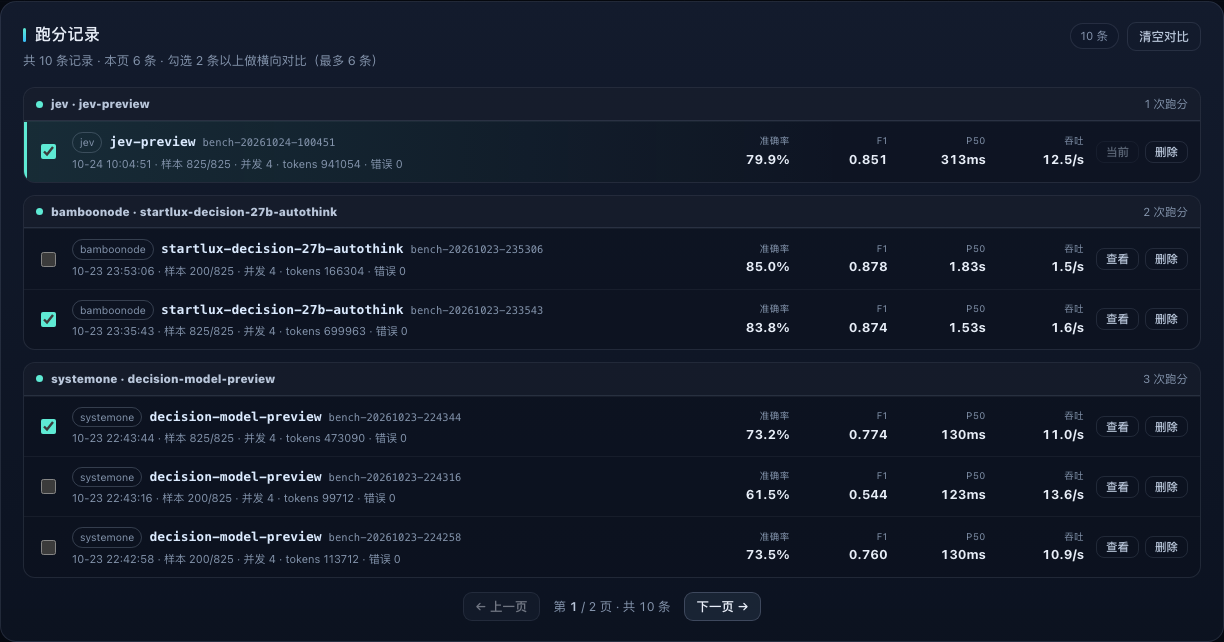
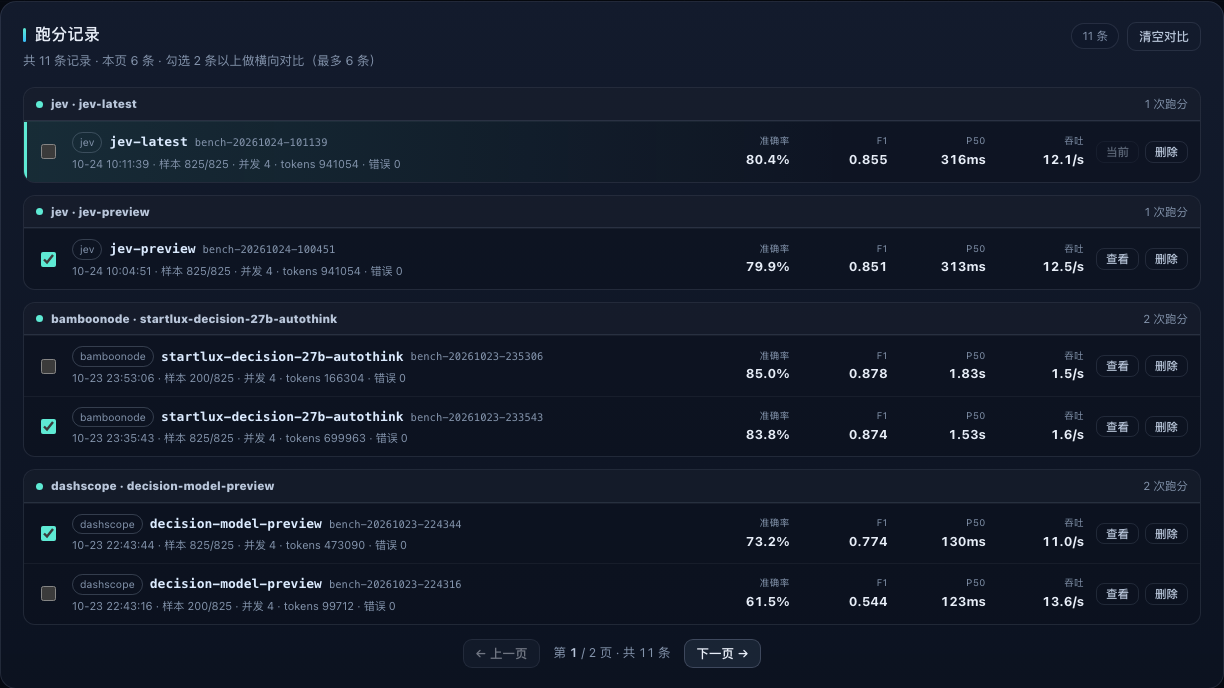
refactor: rename systemone provider to dashscope
- rename provider key, default config, UI dropdown, CLI and API examples
- keep legacy systemone request/config name as a compatibility alias
- migrate existing local result provider labels and refresh screenshots/docs
- update provider tests for dashscope and alias normalization

diff --git a/public/index.html b/public/index.html
@@ -128,7 +128,7 @@
         <label class="field">
           <span>Provider</span>
           <select id="providerSelect">
-            <option value="systemone">systemone</option>
+            <option value="dashscope">dashscope</option>
             <option value="bamboonode">bamboonode</option>
             <option value="jev">jev</option>
             <option value="mock">mock</option>
@@ -147,7 +147,7 @@
         <button class="btn" id="exportBtn" type="button" title="导出当前结果为 CSV" disabled>导出 CSV</button>
       </form>
 
-      <p class="inline-note warn" id="apiKeyWarn" hidden>未检测到 DASHSCOPE_API_KEY（百炼），选择 systemone 会返回配置错误。</p>
+      <p class="inline-note warn" id="apiKeyWarn" hidden>未检测到 DASHSCOPE_API_KEY（百炼），选择 dashscope 会返回配置错误。</p>
 
       <div class="run-progress" id="progressWrap" hidden aria-live="polite">
         <div class="progress-head">

diff --git a/public/app.js b/public/app.js
@@ -266,8 +266,8 @@
       warn.hidden = false;
       return;
     }
-    if (providerName === 'systemone' && health.apiKeyConfigured === false) {
-      warn.textContent = '未检测到 DASHSCOPE_API_KEY（百炼），选择 systemone 会返回配置错误。';
+    if (providerName === 'dashscope' && health.apiKeyConfigured === false) {
+      warn.textContent = '未检测到 DASHSCOPE_API_KEY（百炼），选择 dashscope 会返回配置错误。';
       warn.hidden = false;
       return;
     }

diff --git a/README.md b/README.md
@@ -15,7 +15,7 @@
   <img alt="Node.js 20+" src="https://img.shields.io/badge/Node.js-20%2B-339933">
   <img alt="dependencies: 0" src="https://img.shields.io/badge/dependencies-0-brightgreen">
   <img alt="tests: 58 passed" src="https://img.shields.io/badge/tests-58%20passed-brightgreen">
-  <img alt="providers: systemone / bamboonode / jev / mock" src="https://img.shields.io/badge/providers-systemone%20%7C%20bamboonode%20%7C%20jev%20%7C%20mock-5eead4">
+  <img alt="providers: dashscope / bamboonode / jev / mock" src="https://img.shields.io/badge/providers-dashscope%20%7C%20bamboonode%20%7C%20jev%20%7C%20mock-5eead4">
   <a href="https://github.com/MuShan-bit/decision-moderation-bench"><img alt="GitHub" src="https://img.shields.io/badge/GitHub-decision--moderation--bench-181717?logo=github"></a>
 </p>
 
@@ -27,7 +27,7 @@
 
 ## ✨ 功能
 
-- **多 Provider，同一套协议**：`systemone`（百炼）、`bamboonode`（StartLux）、`jev`（Jev 官方网关）、`mock`（离线规则模拟）
+- **多 Provider，同一套协议**：`dashscope`（百炼 DashScope）、`bamboonode`（StartLux）、`jev`（Jev 官方网关）、`mock`（离线规则模拟）
 - **Provider → Model 级联**：前端只展示当前 provider 可用的模型，后端对跨 provider 的模型组合直接返回 `400 MODEL_NOT_ALLOWED`
 - **可复现评测集**：5 个公开中文数据集、固定 `seed=42`、金标全部来自原始标签映射，数据统计与局限见 [data/README.md](data/README.md)
 - **跑分记录按模型分组 + 分页 / 删除**：每次跑分独立保存为 `results/<runId>.json`，每页 6 条，可翻页查看或删除；删除 latest 会自动回退到上一条
@@ -84,7 +84,7 @@
 
 | 模型 | Provider | 准确率 | 精确率 | 召回率 | F1 | P50 延迟 | P95 延迟 | 吞吐 | 825 条总耗时 |
 | --- | --- | ---: | ---: | ---: | ---: | ---: | ---: | ---: | ---: |
-| `decision-model-preview` | 百炼 `systemone` | 73.2% | 83.5% | 72.2% | 0.774 | **130ms** | 1.94s | 11.03 req/s | 74.8s |
+| `decision-model-preview` | 百炼 `dashscope` | 73.2% | 83.5% | 72.2% | 0.774 | **130ms** | 1.94s | 11.03 req/s | 74.8s |
 | `startlux-decision-27b-autothink` | BambooNode `bamboonode` | **83.8%** | **86.5%** | 88.2% | **0.874** | 1.53s | 7.98s | 1.58 req/s | 8m41s |
 | `jev-preview` | Jev / TypeSafe `jev` | 79.9% | 80.5% | **90.3%** | 0.851 | 313ms | **359ms** | **12.46 req/s** | **66.2s** |
 
@@ -93,7 +93,7 @@
 - **速度呈现三种取舍**：百炼 P50 最快（130ms），但 P95 1.94s、吞吐 11.03 req/s；Jev P50 313ms、**P95 仅 359ms**、吞吐 **12.46 req/s** 为三者最高；StartLux P50 1.53s、P95 7.98s、吞吐 1.58 req/s。
 - 解析失败与调用错误均为 **0**；tokens：百炼 473,090（573/条），StartLux 699,963（848/条），Jev 941,054（1,141/条）。
 - 200 条样本档复测：百炼 ensemble **73.5%**、StartLux **85.0%**，与全量结论一致；百炼纯 argmax 仅 **61.5%**（消融详见报告）。
-- Jev 本次使用 `jev-preview`（1.14）跑全量；`jev-latest`（1.13 stable）已配置但未跑，可用 `node scripts/benchmark.mjs --provider jev --model jev-latest --concurrency 4` 补测。
+- Jev 本次使用 `jev-preview`（1.14）跑全量；`jev-latest`（1.13 stable）也可用 `node scripts/benchmark.mjs --provider jev --model jev-latest --concurrency 4` 跑同一套评测。
 
 ### 分类别 F1 对比（825 条）
 
@@ -119,7 +119,7 @@ cd decision-moderation-bench
 
 cp .env.example .env
 # 编辑 .env，按需填写：
-#   DASHSCOPE_API_KEY + SYSTEMONE_WORKSPACE_ID   # 百炼 systemone
+#   DASHSCOPE_API_KEY + SYSTEMONE_WORKSPACE_ID   # 百炼 dashscope
 #   BAMBOONODE_API_KEY                           # BambooNode / StartLux
 #   JEVMODEL_API_KEY                             # Jev 官方网关
 
@@ -133,8 +133,8 @@ npm start
 
 | 变量 | 必填 | 说明 |
 | --- | --- | --- |
-| `DASHSCOPE_API_KEY` | 跑 `systemone` 必填 | 阿里云百炼 API Key |
-| `SYSTEMONE_WORKSPACE_ID` | 跑 `systemone` 必填 | 百炼 workspace id，默认域名 `https://{id}.cn-beijing.maas.aliyuncs.com` |
+| `DASHSCOPE_API_KEY` | 跑 `dashscope` 必填 | 阿里云百炼 API Key |
+| `SYSTEMONE_WORKSPACE_ID` | 跑 `dashscope` 必填 | 百炼 workspace id，默认域名 `https://{id}.cn-beijing.maas.aliyuncs.com` |
 | `SYSTEMONE_REGION` | 否 | 默认 `cn-beijing` |
 | `BAMBOONODE_API_KEY` | 跑 `bamboonode` 必填 | BambooNode 网关 Key |
 | `BAMBOONODE_BASE_URL` | 否 | 默认 `https://api.bamboonode.dev/v1` |
@@ -142,7 +142,7 @@ npm start
 | `JEVMODEL_API_KEY` | 跑 `jev` 必填 | Jev / TypeSafe 官方网关 Key |
 | `JEVMODEL_BASE_URL` | 否 | 默认 `https://api.typesafe.ai/v1` |
 | `JEVMODEL_MODELS` | 否 | 默认 `jev-preview,jev-latest` |
-| `MODERATION_PROVIDER` | 否 | 默认 `systemone`；可选 `systemone` / `bamboonode` / `jev` / `mock` |
+| `MODERATION_PROVIDER` | 否 | 默认 `dashscope`；可选 `dashscope` / `bamboonode` / `jev` / `mock` |
 | `MODERATION_MODEL` | 否 | 默认 `decision-model-preview` |
 | `PORT` / `HOST` | 否 | 默认 `8788` / `127.0.0.1` |
 | `RESULTS_DIR` | 否 | 结果目录，默认 `results/` |
@@ -173,7 +173,7 @@ npm start
 
 ```bash
 # 全部 825 条，并发 4
-node scripts/benchmark.mjs --provider systemone --model decision-model-preview --concurrency 4
+node scripts/benchmark.mjs --provider dashscope --model decision-model-preview --concurrency 4
 
 # StartLux（BambooNode）
 node scripts/benchmark.mjs --provider bamboonode --model startlux-decision-27b-autothink --concurrency 4
@@ -182,8 +182,8 @@ node scripts/benchmark.mjs --provider bamboonode --model startlux-decision-27b-a
 node scripts/benchmark.mjs --provider jev --model jev-preview --concurrency 4
 
 # 快速冒烟 / 指定输出目录 / 关闭 ensemble
-node scripts/benchmark.mjs --provider systemone --limit 20 --concurrency 2 --out /tmp/bench
-node scripts/benchmark.mjs --provider systemone --limit 200 --pure
+node scripts/benchmark.mjs --provider dashscope --limit 20 --concurrency 2 --out /tmp/bench
+node scripts/benchmark.mjs --provider dashscope --limit 200 --pure
 ```
 
 结果写入 `results/<runId>.json`，同时更新 `results/latest.json`。`--out` 可指定其他目录，避免覆盖主结果。
@@ -218,7 +218,7 @@ node scripts/benchmark.mjs --provider systemone --limit 200 --pure
 │   ├── benchmark.mjs       # 跑分引擎 / 指标 / 结果持久化
 │   ├── dataset.mjs         # 数据集加载
 │   ├── moderation.mjs      # taxonomy / 判定与阈值
-│   ├── providers/          # systemone / bamboonode / jev / mock
+│   ├── providers/          # dashscope / bamboonode / jev / mock
 │   └── lib/                # env / limiter
 ├── scripts/
 │   ├── prepare_data.py     # 数据集构建（Python 标准库）

diff --git a/docs/CONTRACT.md b/docs/CONTRACT.md
@@ -2,14 +2,14 @@
 
 项目：`decision-moderation-bench` —— 基于决策模型（TypeSafe System One / typed-decision 协议）的中文内容安全审核跑分台：
 Web 控制台 + 真实数据集 + 速度/准确率跑分。
-真实 provider：`systemone`（百炼决策模型 `decision-model-preview`）、`bamboonode`（StartLux `startlux-decision-27b-autothink`）、`jev`（Jev 官方网关 `jev-preview` / `jev-latest`）；`mock` 仅离线演示。
+真实 provider：`dashscope`（百炼 DashScope 决策模型 `decision-model-preview`）、`bamboonode`（StartLux `startlux-decision-27b-autothink`）、`jev`（Jev 官方网关 `jev-preview` / `jev-latest`）；`mock` 仅离线演示。
 
 工作目录（workspace root）：`/Users/mushan/Downloads/untitled folder 2`
 
 技术约束（重要）：
 - Node.js v24 可用（`node` 在 PATH）。**后端/前端零 npm 依赖**，只用 Node 内置模块（`node:http`、`node:fs`、全局 `fetch` 等）。不要 `npm install`。
 - 数据准备脚本用 **Python 3 标准库**（`python3` 即 3.14，只有标准库，没有 pandas/numpy；不要安装新包）。
-- 所有产物必须能在离线状态下启动/运行（mock provider 兜底），联网时走真实决策模型 provider（systemone / bamboonode / jev）。
+- 所有产物必须能在离线状态下启动/运行（mock provider 兜底），联网时走真实决策模型 provider（dashscope / bamboonode / jev）。
 - 文本为中文；UI 文案中文。
 - 不要提交/打印 `.env` 里的 API Key。不要 `git init`/`git commit`（无需要）。
 
@@ -91,16 +91,16 @@ Web 控制台 + 真实数据集 + 速度/准确率跑分。
 
 服务默认 `http://127.0.0.1:8788`，静态页面从 `public/` 提供。
 
-- `GET /api/health` → `{"ok":true,"provider":"systemone","model":"decision-model-preview","dataset":{"total":825},"apiKeyConfigured":true,"workspaceConfigured":true,"bamboonodeKeyConfigured":false,"jevKeyConfigured":false,"hasResults":true}`
-- `GET /api/config` → `{"providers":["systemone","bamboonode","jev","mock"],"models":["decision-model-preview"],"providerModels":{"systemone":["decision-model-preview"],"bamboonode":["startlux-decision-27b-autothink"],"jev":["jev-preview","jev-latest"],"mock":["mock-rule-v1"]},"defaultProvider":"systemone","defaultModel":"decision-model-preview","taxonomy":[{"code":"safe","label":"正常"},...],"concurrencyOptions":[1,2,4,8,16],"latestResultId":"..."}`（前端用 `providerModels` 做 Provider→Model 级联筛选）
+- `GET /api/health` → `{"ok":true,"provider":"dashscope","model":"decision-model-preview","dataset":{"total":825},"apiKeyConfigured":true,"workspaceConfigured":true,"bamboonodeKeyConfigured":false,"jevKeyConfigured":false,"hasResults":true}`
+- `GET /api/config` → `{"providers":["dashscope","bamboonode","jev","mock"],"models":["decision-model-preview"],"providerModels":{"dashscope":["decision-model-preview"],"bamboonode":["startlux-decision-27b-autothink"],"jev":["jev-preview","jev-latest"],"mock":["mock-rule-v1"]},"defaultProvider":"dashscope","defaultModel":"decision-model-preview","taxonomy":[{"code":"safe","label":"正常"},...],"concurrencyOptions":[1,2,4,8,16],"latestResultId":"..."}`（前端用 `providerModels` 做 Provider→Model 级联筛选）
 - `GET /api/dataset?offset=0&limit=50&filter=all|violation|safe|error` → `{"total":820,"items":[{sample fields...}]}`（不含 NSFW 原文时可选，但默认返回；sensitive 字段供前端打码）
 - `GET /api/results?page=1&pageSize=6` → `{"total":12,"page":1,"pageSize":6,"totalPages":2,"latestResultId":"bench-...","runs":[{"runId":"bench-...","provider":"bamboonode","model":"startlux-decision-27b-autothink","simulated":false,"startedAt":"...","finishedAt":"...","sampleCount":825,"datasetTotal":825,"limit":825,"concurrency":4,"accuracy":0.8376,"precision":0.8654,"recall":0.8819,"f1":0.8736,"macroF1":0.754,"p50":1533,"p95":7977.6,"throughputRps":1.58,"tokensTotal":699963,"errors":0,"perCategory":{...}}]}`：历史跑分分页摘要（按结束时间倒序，不含 records 正文），供「跑分记录 / 模型对比」使用；`page` 默认 1，`pageSize` 默认 10、上限 50，越界 page 自动夹到最后一页
 - `GET /api/results/latest` → 最新 bench result（结构见第 6 节）或 `null`
 - `GET /api/results/:runId` → 结果
 - `DELETE /api/results/:runId` → `{"ok":true,"runId":"...","latestResultId":"..."}`：删除一条历史跑分；若删除的是 latest 指向记录，自动回退到剩余最新一条（没有则删除 `latest.json`），不存在返回 404
-- `POST /api/benchmark` body `{"limit":200,"concurrency":4,"provider":"systemone","model":"decision-model-preview"}` → `202 {"runId":"bench-20261023-211500"}`；`provider=bamboonode` 时 `model` 取 `startlux-decision-27b-autothink`；`provider=jev` 时取 `jev-preview` / `jev-latest`；跨 provider 模型 → `400 MODEL_NOT_ALLOWED`
+- `POST /api/benchmark` body `{"limit":200,"concurrency":4,"provider":"dashscope","model":"decision-model-preview"}` → `202 {"runId":"bench-20261023-211500"}`；`provider=bamboonode` 时 `model` 取 `startlux-decision-27b-autothink`；`provider=jev` 时取 `jev-preview` / `jev-latest`；跨 provider 模型 → `400 MODEL_NOT_ALLOWED`
 - `GET /api/benchmark/:runId` → `{"runId":"...","status":"queued|running|done|error","done":123,"total":820,"resultId":"bench-...","error":null,"startedAt":"...","elapsedMs":12345}`
-- `POST /api/moderate` body `{"text":"...","provider":"systemone"}`（或 `bamboonode` + 对应 `model`）→ `{"verdict":{...},"latencyMs":830,"provider":"systemone","model":"decision-model-preview","parseError":false,"raw":"..."}`
+- `POST /api/moderate` body `{"text":"...","provider":"dashscope"}`（或 `bamboonode` + 对应 `model`）→ `{"verdict":{...},"latencyMs":830,"provider":"dashscope","model":"decision-model-preview","parseError":false,"raw":"..."}`
 - `GET /api/results/:runId/export.csv`（可选，前端也可本地生成）
 
 静态路径：`/` → `public/index.html`；`/app.js`、`/styles.css` 等。
@@ -127,7 +127,7 @@ user：`待审核文本：\n<<<\n{text}\n>>>`
 ## 6. 跑分结果结构 `results/<runId>.json`（同时复制到 `results/latest.json`）
 
 ```json
-{"runId":"bench-...","startedAt":"ISO","finishedAt":"ISO","provider":"systemone","model":"decision-model-preview",
+{"runId":"bench-...","startedAt":"ISO","finishedAt":"ISO","provider":"dashscope","model":"decision-model-preview",
  "config":{"concurrency":4,"limit":820,"datasetTotal":820},
  "records":[{"id":"cold-0001","text":"...","source":"cold","sensitive":false,
    "gold":{"violation":true,"categories":["hate"]},

diff --git a/REPORT.md b/REPORT.md
@@ -30,7 +30,7 @@
 - 输出是结构化概率 + 置信度，不需要解析自然语言，**parseFail 可以做到 0**；
 - 百炼决策模型输入 token 当前免费，RPM 1200 / TPM 2,000,000，适合批量跑分与在线一审。
 
-普通 OpenAI 兼容 chat 模型在百炼 Key 下会被限流（429）或权限拒绝，且需要生成 JSON、解析失败率不可控，因此不用于主对比。当前提供四个 provider：`systemone`（百炼）、`bamboonode`（StartLux）、`jev`（Jev / TypeSafe 官方网关）、`mock`（离线演示）；三个真实服务协议相同，仅 endpoint / Key / 模型名不同。前端按 `providerModels` 做 Provider→Model 级联，后端对跨 provider 的模型组合直接返回 400。
+普通 OpenAI 兼容 chat 模型在百炼 Key 下会被限流（429）或权限拒绝，且需要生成 JSON、解析失败率不可控，因此不用于主对比。当前提供四个 provider：`dashscope`（百炼 DashScope）、`bamboonode`（StartLux）、`jev`（Jev / TypeSafe 官方网关）、`mock`（离线演示）；三个真实服务协议相同，仅 endpoint / Key / 模型名不同。前端按 `providerModels` 做 Provider→Model 级联，后端对跨 provider 的模型组合直接返回 400。
 
 ### 1.2 接口与请求结构
 
@@ -318,21 +318,21 @@ else: safe
 python3 scripts/prepare_data.py
 
 # 2) 全量准确率 + 延迟（并发 4）
-node scripts/benchmark.mjs --provider systemone --model decision-model-preview --concurrency 4
+node scripts/benchmark.mjs --provider dashscope --model decision-model-preview --concurrency 4
 
 # 3) 并发-吞吐曲线（每档 200 条）
 for c in 1 2 4 8; do
-  node scripts/benchmark.mjs --provider systemone --concurrency $c --limit 200
+  node scripts/benchmark.mjs --provider dashscope --concurrency $c --limit 200
 done
 
 # 4) 消融：关闭 attack/harmful 组合，仅 category argmax
-node scripts/benchmark.mjs --provider systemone --concurrency 4 --limit 200 --pure
+node scripts/benchmark.mjs --provider dashscope --concurrency 4 --limit 200 --pure
 
 # 5) 离线演示（无需 Key）
 node scripts/benchmark.mjs --provider mock --limit 200 --concurrency 4
 ```
 
-Web 端：`npm start` 后打开 <http://127.0.0.1:8788>，选择「全部 / 并发 4 / systemone / decision-model-preview」即可复现同一跑分，并可视化样本级明细。
+Web 端：`npm start` 后打开 <http://127.0.0.1:8788>，选择「全部 / 并发 4 / dashscope / decision-model-preview」即可复现同一跑分，并可视化样本级明细。
 
 ## 9. 附录：关键结果文件
 
